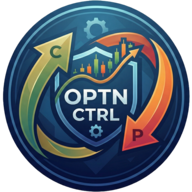
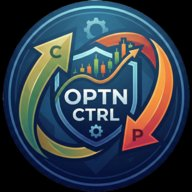
Add files via upload

diff --git a/index.html b/index.html
@@ -4,7 +4,7 @@
   <meta charset="UTF-8">
   <meta name="viewport" content="width=device-width, initial-scale=1.0, maximum-scale=1.0, user-scalable=no">
 
-  <title>StockOps</title>
+  <title>OPTN CTRL</title>
 
   <!-- PWA -->
   <link rel="manifest" href="manifest.json">
@@ -12,7 +12,7 @@
   <meta name="mobile-web-app-capable" content="yes">
   <meta name="apple-mobile-web-app-capable" content="yes">
   <meta name="apple-mobile-web-app-status-bar-style" content="black-translucent">
-  <meta name="apple-mobile-web-app-title" content="StockOps">
+  <meta name="apple-mobile-web-app-title" content="OPTN CTRL">
   <link rel="apple-touch-icon" href="icon-192.png">
 
   <style>
@@ -116,9 +116,9 @@
 <body>
 
   <div class="splash">
-    <div class="icon"><span>S</span></div>
+    <img src="icon-192.png" alt="OPTN CTRL" style="width:96px;height:96px;border-radius:22px;box-shadow:0 8px 32px rgba(0,0,0,0.4);">
     <div>
-      <p class="app-name">StockOps</p>
+      <p class="app-name">OPTN CTRL</p>
       <p class="app-sub">Portfolio de Opcoes B3</p>
     </div>
     <div class="spinner"></div>
@@ -127,7 +127,7 @@
   <button id="btn-instalar">Instalar App</button>
 
   <script>
-    var GAS_URL = 'https://script.google.com/macros/s/AKfycbzFYVHCWG9D6lfkPuylb5_-uMY5_S0H8rcwDu9pAcXi/dev';
+    var GAS_URL = 'https://script.google.com/macros/s/AKfycbxMsK5xzb2CCHmi3Sa4zAg_Z-GmPZmWEbN7pI_LWXykLWXPc8QB7N9z_JKRW0bCyXawwA/exec';
 
     // Service Worker
     if ('serviceWorker' in navigator) {

diff --git a/sw.js b/sw.js
@@ -1,5 +1,5 @@
-var CACHE_NAME = 'stockops-v1';
-var GAS_URL    = 'https://script.google.com/macros/s/AKfycbzFYVHCWG9D6lfkPuylb5_-uMY5_S0H8rcwDu9pAcXi/dev';
+var CACHE_NAME = 'stockops-v3';
+var GAS_URL    = 'https://script.google.com/macros/s/AKfycbxMsK5xzb2CCHmi3Sa4zAg_Z-GmPZmWEbN7pI_LWXykLWXPc8QB7N9z_JKRW0bCyXawwA/exec';
 var SHELL = [
   '/stockops/',
   '/stockops/index.html',
